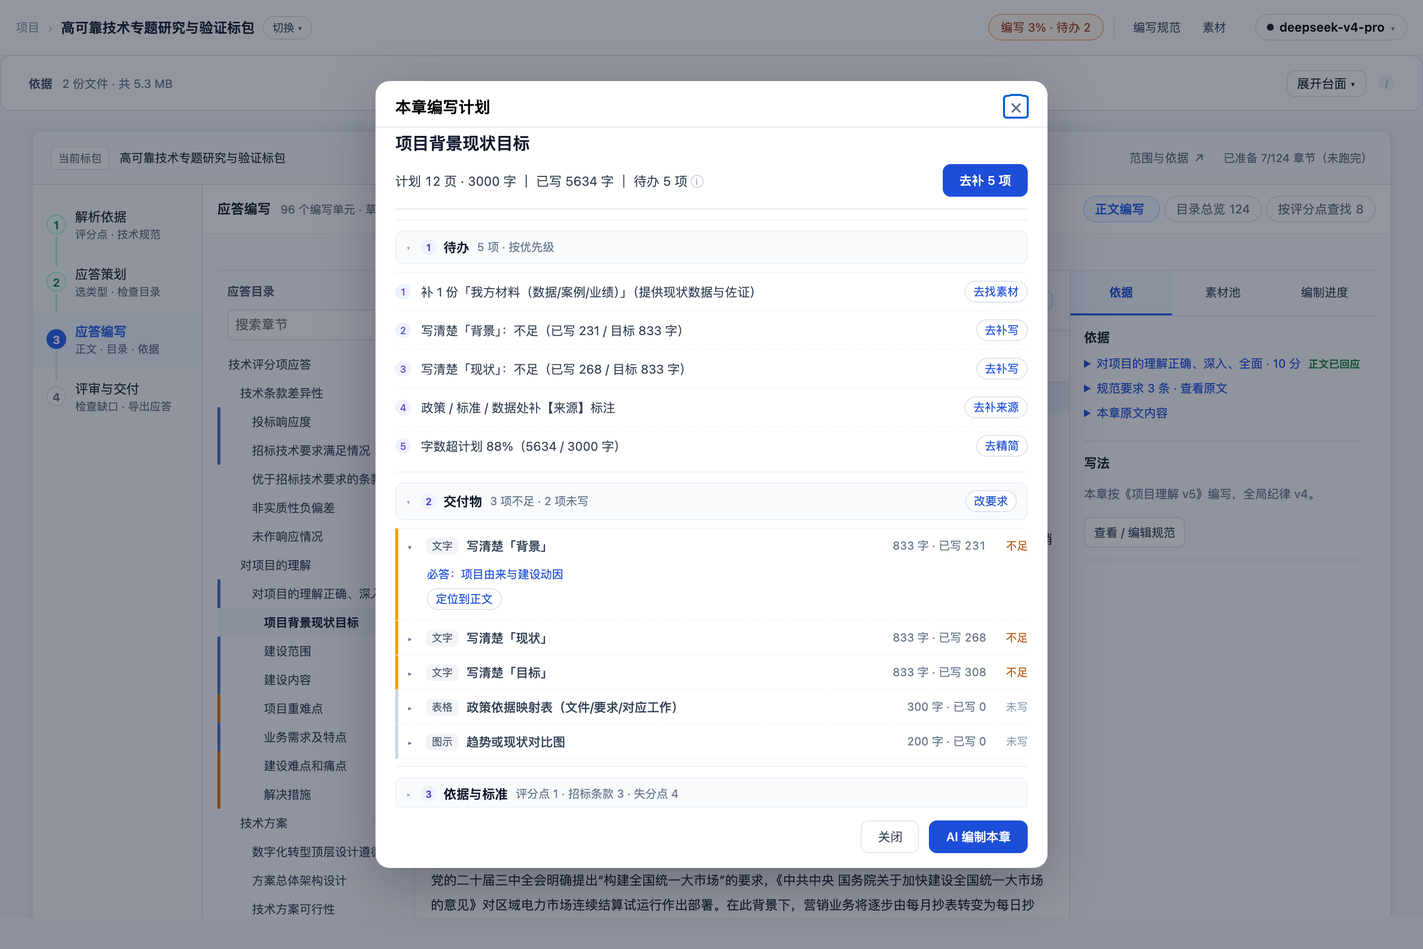
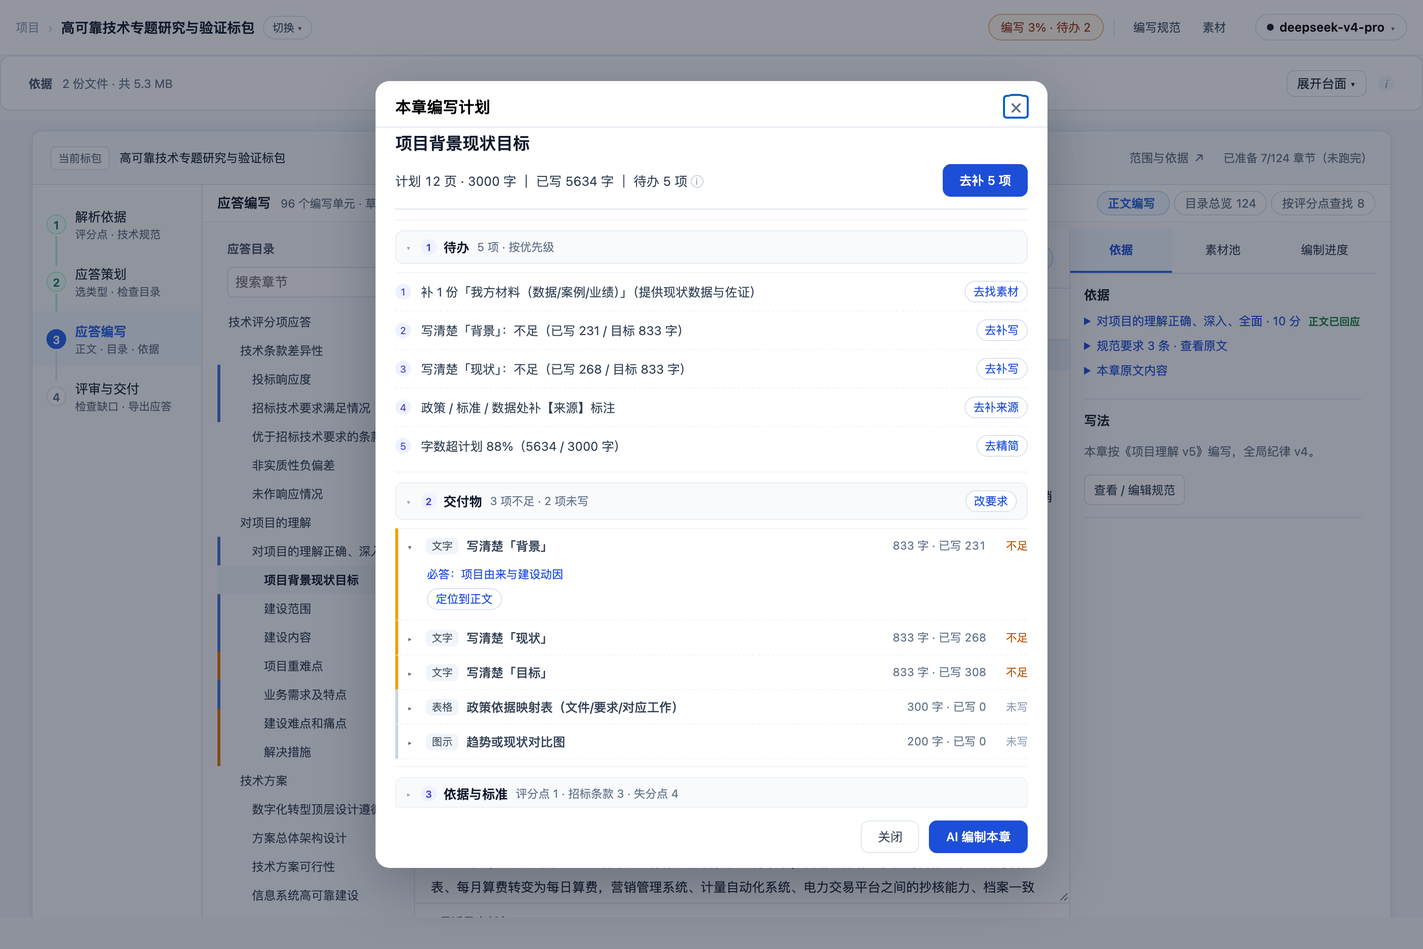
style(编写页): 收紧头部上下间距（57px → 10px）
用户标注：编写页标题行下方有一大块空白。

## 三层来源（实测）
1. `.sr-stage-head` padding 11+11 = 22px（页签移进头部后这一行变高）
2. `.sr-stage-body` padding-top 10px
3. `#sr-write-body` 里残留的 `.cs-document-head`（交付格式块已隐藏）仍占 **25px** 空高

## 调整
- `.sr-stage-head` padding → 6px（高度 50 → 38px）
- `.sr-stage-body` padding-top → 6px
- 头部页签更紧凑（padding 3px 10px / 12px 字号）
- `.cs-document-head{display:none}`：交付格式块已隐藏，容器不再占位（DOM 保留，导出逻辑照常）
- 头部到工作台间距：**57px → 10px**

## 自检加规则（25 条）
V 头部到工作台间距 ≤ 18px（在章选中之后测，避免测到空态）

`bash scripts/check.sh` → 25/25 通过（v304）

diff --git a/frontend/assets/mode-outline.js b/frontend/assets/mode-outline.js
@@ -2,9 +2,9 @@
    抽成模块的目的：两段内联脚本有 90 个同名顶层标识符 + 18 个重复 DOM id，
    同页拼接必然互相覆盖；各自成为一个模块即各自一个作用域。
    本文件在抽取时**未改任何逻辑**。 */
-import {mountChapterStudio, exportDocument} from './chapter-studio.mjs?v=20261016-v302';
-import { api } from './api.js?v=20261016-v302';
-import { specContentHtml } from './spec-content.mjs?v=20261016-v302';
+import {mountChapterStudio, exportDocument} from './chapter-studio.mjs?v=20261016-v304';
+import { api } from './api.js?v=20261016-v304';
+import { specContentHtml } from './spec-content.mjs?v=20261016-v304';
 // 顶栏（项目名旁边那行「第 N 轮 · ...」）由共享壳 workspace.js 渲染。这里要把它
 // 改成**页面自己的真实状态**：checkpoint 的 stage 在准备中/编写准备完成后都停在
 // outline_review，只看它的话顶栏永远显示"待确认目录"（实测就是这个问题）。
@@ -12,7 +12,7 @@ import { workspace, renderWorkspaceChrome,
          REQUIREMENT_ROLES, SELECTABLE_REQUIREMENT_ROLES, ROLE_LABEL_SHARED, ROLE_HINT_SHARED,
          roleMismatchWarning, inferRoleFromFilename,
          uiAlert, uiConfirm,
-       } from './workspace.js?v=20261016-v302';
+       } from './workspace.js?v=20261016-v304';
 import { resolvePackageScope, buildOutlineTree, isOrphanedRun, activeStages, instructionDirty, newOutlineId, outlineSubtreeRange,
          moveOutlineNode, indentOutlineNode, outdentOutlineNode,
          moveManyOutlineNodes, indentManyOutlineNodes, outdentManyOutlineNodes,
@@ -31,7 +31,7 @@ import { resolvePackageScope, buildOutlineTree, isOrphanedRun, activeStages, ins
          // 章节状态投影：素材库 / 方案编辑 / 覆盖矩阵共用同一份判定（不再各算各的）
          chapterStage, chapterBadges, filterChapters, chapterFilterCounts,
          CHAPTER_STAGE_LABELS, evidenceByChapter, expandVisibleWithAncestors
-       } from './workspace-model.mjs?v=20261016-v302';
+       } from './workspace-model.mjs?v=20261016-v304';
 
 const params = new URLSearchParams(location.search);
 // projectId **只取数字部分**：链接被误写成 `?projectId=19**(Cmd+Shift+R)`（连带说明文字）
@@ -180,7 +180,7 @@ document.head.insertAdjacentHTML('beforeend', `<style>
 // 左栏章节树：行标记与「方案编辑」共用一份（2026-10-13 左栏归一）。
 // 此前两侧各拼一套（.ot-row / .doc-outline-item），数据投影虽已共用，
 // 但标记重复维护会漂移（workspace-model.mjs 注释里记着 "#undefined" 那次）。
-import { chapterNode, chapterBadgesHtml as sharedBadgesHtml } from './chapter-tree.mjs?v=20261016-v302';
+import { chapterNode, chapterBadgesHtml as sharedBadgesHtml } from './chapter-tree.mjs?v=20261016-v304';
 const blocksEmpty = document.getElementById('blocks-empty');
 const sidebarToc  = document.getElementById('sidebar-toc');
 const ringFill    = document.getElementById('ring-fill');
@@ -4813,13 +4813,14 @@ async function openSplitReport({ auto = false, tab = '', stage: stageIn = '', su
   .sr-stack{flex:1;min-width:0;background:#fcfcfd}
   .sr-stage{display:none}
   .sr-stage.on{display:block}
-  .sr-stage-head{display:flex;align-items:center;gap:10px;padding:11px 15px;
+  .sr-stage-head{display:flex;align-items:center;gap:10px;padding:6px 15px;
     border-bottom:1px solid var(--line2,#eef1f5);background:#fff}
   .sr-stage-head .t{font-weight:600;font-size:13.5px}
   .sr-stage-head .hint{color:var(--muted);font-size:11.5px}
-  .sr-stage-body{padding:12px 15px 18px}
+  .sr-stage-body{padding:6px 15px 12px}
   .sr-subtabs{display:flex;gap:4px;margin:0 0 8px;flex-wrap:wrap}
   .sr-subtabs--head{margin:0 0 0 auto;flex-wrap:nowrap}
+  .sr-subtabs--head .sr-subtab{padding:3px 10px;font-size:12px}
   .sr-subtab{font-size:12.5px;padding:4px 11px;border-radius:999px;border:1px solid var(--line);
     background:#fff;color:var(--muted);cursor:pointer}
   .sr-subtab.on{background:#eff6ff;border-color:#bfdbfe;color:#2563eb;font-weight:600}
@@ -4937,6 +4938,9 @@ async function openSplitReport({ auto = false, tab = '', stage: stageIn = '', su
   .sr-topic-name{flex:0 0 46%;font-size:12.5px;overflow:hidden;text-overflow:ellipsis;white-space:nowrap}
   .sr-topic-row select{flex:1;font:inherit;font-size:12.5px;padding:2px 6px;
     border:1px solid var(--line);border-radius:6px;background:#fff}
+  #sr-write-body{margin-top:0}
+  .cs-document-head{display:none}   /* 交付格式块已隐藏，容器不再占 25px 空白 */
+  #sr-write-body .cs-workspace{margin-top:0}
   .sr-note{margin-top:10px;color:var(--muted);font-size:11.5px;line-height:1.6}`;
     document.head.appendChild(st);
   }

diff --git a/frontend/workbench.html b/frontend/workbench.html
@@ -4,7 +4,7 @@
     <meta charset="UTF-8" />
     <meta name="viewport" content="width=device-width, initial-scale=1.0" />
     <title>智能应标 · 材料撰写</title>
-    <link rel="stylesheet" href="./assets/styles.css?v=20261016-v302" />
+    <link rel="stylesheet" href="./assets/styles.css?v=20261016-v304" />
     <style>
       /* Outline pane */
       .workspace-shell .outline-pane {
@@ -2055,7 +2055,7 @@
     </style>
     <!-- Markdown 渲染（用于预览模式） -->
     <script src="https://cdn.jsdelivr.net/npm/marked@12.0.0/marked.min.js"></script>
-  <link rel="stylesheet" href="./assets/workspace.css?v=20261016-v302" />
+  <link rel="stylesheet" href="./assets/workspace.css?v=20261016-v304" />
   </head>
   <body>
   <script>
@@ -2500,18 +2500,18 @@
       </main>
     </div>
 
-    <script type="module" src="./assets/workbench.js?v=20261016-v302"></script>
+    <script type="module" src="./assets/workbench.js?v=20261016-v304"></script>
     <script type="module">
-      import { GenerateSession } from './assets/generate-session.js?v=20261016-v302';
-      import { initContextPanel } from './assets/context-panel.js?v=20261016-v302';
-      import { api } from './assets/api.js?v=20261016-v302';
-      import { request as workspaceRequest, refreshWorkspace, workspace, confirmChapterAction } from './assets/workspace.js?v=20261016-v302';
+      import { GenerateSession } from './assets/generate-session.js?v=20261016-v304';
+      import { initContextPanel } from './assets/context-panel.js?v=20261016-v304';
+      import { api } from './assets/api.js?v=20261016-v304';
+      import { request as workspaceRequest, refreshWorkspace, workspace, confirmChapterAction } from './assets/workspace.js?v=20261016-v304';
       // 提炼字段枚举 + 素材依据的**渲染片段**与 project-init 共用（见 workspace-model.mjs 注释）：
       // 性质徽标与出处行的实现在那边只有一份，两个页面不再各写一套（曾经因此漂移出
       // "每行显示 #undefined"）。
       import { CONSTRAINT_LEVELS, constraintLevelLabel,
                evidenceKindBadgeHtml, evidenceSourceLineHtml, evidenceSnippet,
-               chapterStage, CHAPTER_STAGE_LABELS } from './assets/workspace-model.mjs?v=20261016-v302';
+               chapterStage, CHAPTER_STAGE_LABELS } from './assets/workspace-model.mjs?v=20261016-v304';
       initContextPanel();
 
       // 素材抽屉：默认收起（写作时右栏就是正文本身），点工具栏「素材 n ▸」打开；
@@ -5575,6 +5575,6 @@
       })();
     })();
     </script>
-  <script type="module" src="./assets/workspace.js?v=20261016-v302"></script>
+  <script type="module" src="./assets/workspace.js?v=20261016-v304"></script>
   </body>
 </html>

diff --git a/frontend/three-mode.html b/frontend/three-mode.html
@@ -4,9 +4,9 @@
     <meta charset="UTF-8" />
     <meta name="viewport" content="width=device-width, initial-scale=1.0" />
     <title>AiBidding · Workbench Init State</title>
-    <link rel="stylesheet" href="./assets/response-outline.css?v=20261016-v302" />
-    <link rel="stylesheet" href="./assets/chapter-studio.css?v=20261016-v302" />
-    <link rel="stylesheet" href="./assets/styles.css?v=20261016-v302" />
+    <link rel="stylesheet" href="./assets/response-outline.css?v=20261016-v304" />
+    <link rel="stylesheet" href="./assets/chapter-studio.css?v=20261016-v304" />
+    <link rel="stylesheet" href="./assets/styles.css?v=20261016-v304" />
     <style>
 /* ── 三栏布局 ── */
 .init-layout {
@@ -3350,8 +3350,8 @@ body[data-view="matching"] .match-detail { display: block; }
   body[data-view="editor"] .ws-editor-layout { flex: 1 1 auto; min-height: 0; }
 
 </style>
-  <link rel="stylesheet" href="./assets/workspace.css?v=20261016-v302" />
-  <link rel="stylesheet" href="./assets/ui.css?v=20261016-v302" />   <!-- 组件最小集：最后加载以统一历史类名 -->
+  <link rel="stylesheet" href="./assets/workspace.css?v=20261016-v304" />
+  <link rel="stylesheet" href="./assets/ui.css?v=20261016-v304" />   <!-- 组件最小集：最后加载以统一历史类名 -->
   </head>
   <body data-view="outline" data-modes="outline,matching,editor">
     <div class="workspace-shell">
@@ -4062,16 +4062,16 @@ body[data-view="matching"] .match-detail { display: block; }
         if (skel) skel.hidden = true;
       }, 6000);
     </script>
-    <script type="module" src="./assets/workbench.js?v=20261016-v302"></script>
-    <script type="module" src="./assets/mode-dispatch.js?v=20261016-v302"></script>
+    <script type="module" src="./assets/workbench.js?v=20261016-v304"></script>
+    <script type="module" src="./assets/mode-dispatch.js?v=20261016-v304"></script>
     <!-- 动态 import：失败可捕获并上报（静态 import 失败无法捕获，会让整页静默不执行） -->
     <script type="module">
-      for (const mod of ['./assets/mode-outline.js?v=20261016-v302',
-                        './assets/mode-editor.js?v=20261016-v302']) {
+      for (const mod of ['./assets/mode-outline.js?v=20261016-v304',
+                        './assets/mode-editor.js?v=20261016-v304']) {
         try { await import(mod); }
         catch (err) { window.__bootErrors.push(`模块加载失败 ${mod}：${err?.message || err}`); }
       }
     </script>
-  <script type="module" src="./assets/workspace.js?v=20261016-v302"></script>
+  <script type="module" src="./assets/workspace.js?v=20261016-v304"></script>
   </body>
 </html>

diff --git a/frontend/project-init.html b/frontend/project-init.html
@@ -4,7 +4,7 @@
     <meta charset="UTF-8" />
     <meta name="viewport" content="width=device-width, initial-scale=1.0" />
     <title>AiBidding · Workbench Init State</title>
-    <link rel="stylesheet" href="./assets/styles.css?v=20261016-v302" />
+    <link rel="stylesheet" href="./assets/styles.css?v=20261016-v304" />
     <style>
 /* ── 三栏布局 ── */
 .init-layout {
@@ -889,7 +889,7 @@ body[data-view="matching"] .match-detail { display: block; }
   background: #eff6ff;
 }
     </style>
-  <link rel="stylesheet" href="./assets/workspace.css?v=20261016-v302" />
+  <link rel="stylesheet" href="./assets/workspace.css?v=20261016-v304" />
   </head>
   <body data-view="outline">
   <script>
@@ -1097,14 +1097,14 @@ body[data-view="matching"] .match-detail { display: block; }
     </div>
 
     <script type="module">
-import { api } from './assets/api.js?v=20261016-v302';
+import { api } from './assets/api.js?v=20261016-v304';
 // 顶栏（项目名旁边那行「第 N 轮 · ...」）由共享壳 workspace.js 渲染。这里要把它
 // 改成**页面自己的真实状态**：checkpoint 的 stage 在提炼中/提炼完成后都停在
 // outline_review，只看它的话顶栏永远显示"待确认目录"（实测就是这个问题）。
 import { workspace, renderWorkspaceChrome,
          REQUIREMENT_ROLES, ROLE_LABEL_SHARED, ROLE_HINT_SHARED,
          roleMismatchWarning, inferRoleFromFilename,
-       } from './assets/workspace.js?v=20261016-v302';
+       } from './assets/workspace.js?v=20261016-v304';
 import { buildOutlineTree, isOrphanedRun, activeStages, instructionDirty, newOutlineId, outlineSubtreeRange,
          moveOutlineNode, indentOutlineNode, outdentOutlineNode,
          removeOutlineSubtree, insertSiblingAfter, insertChildOf,
@@ -1118,7 +1118,7 @@ import { buildOutlineTree, isOrphanedRun, activeStages, instructionDirty, newOut
          // 章节状态投影：素材库 / 方案编辑 / 覆盖矩阵共用同一份判定（不再各算各的）
          chapterStage, chapterBadges, filterChapters, chapterFilterCounts,
          CHAPTER_STAGE_LABELS, evidenceByChapter, expandVisibleWithAncestors
-       } from './assets/workspace-model.mjs?v=20261016-v302';
+       } from './assets/workspace-model.mjs?v=20261016-v304';
 
 const params = new URLSearchParams(location.search);
 const projectId = params.get('projectId');
@@ -4957,6 +4957,6 @@ bindMatchDetailActions();
   });
 })();
     </script>
-  <script type="module" src="./assets/workspace.js?v=20261016-v302"></script>
+  <script type="module" src="./assets/workspace.js?v=20261016-v304"></script>
   </body>
 </html>

diff --git a/frontend/assets/mode-editor.js b/frontend/assets/mode-editor.js
@@ -2,13 +2,13 @@
    抽成模块的目的：两段内联脚本有 90 个同名顶层标识符 + 18 个重复 DOM id，
    同页拼接必然互相覆盖；各自成为一个模块即各自一个作用域。
    本文件在抽取时**未改任何逻辑**。 */
-import { GenerateSession } from './generate-session.js?v=20261016-v302';
+import { GenerateSession } from './generate-session.js?v=20261016-v304';
 // 左栏章节树：与「要求与大纲 / 素材库」共用一份行标记（2026-10-13 左栏归一）
-import { chapterNode, renderChapterTree } from './chapter-tree.mjs?v=20261016-v302';
-import { initContextPanel } from './context-panel.js?v=20261016-v302';
-import { api } from './api.js?v=20261016-v302';
+import { chapterNode, renderChapterTree } from './chapter-tree.mjs?v=20261016-v304';
+import { initContextPanel } from './context-panel.js?v=20261016-v304';
+import { api } from './api.js?v=20261016-v304';
 import { request as workspaceRequest, refreshWorkspace, workspace, confirmChapterAction ,
-         uiAlert, uiConfirm} from './workspace.js?v=20261016-v302';
+         uiAlert, uiConfirm} from './workspace.js?v=20261016-v304';
 
 // ── 本章要求 bar 的应答条目缓存 ──────────────────────────────
 // 必须**声明在模块最前面**：它原本声明在文件中部，而模块之间存在循环依赖
@@ -21,7 +21,7 @@ let responseItemsByBlock = {};
 // "每行显示 #undefined"）。
 import { CONSTRAINT_LEVELS, constraintLevelLabel,
          evidenceKindBadgeHtml, evidenceSourceLineHtml, evidenceSnippet,
-         chapterStage, CHAPTER_STAGE_LABELS } from './workspace-model.mjs?v=20261016-v302';
+         chapterStage, CHAPTER_STAGE_LABELS } from './workspace-model.mjs?v=20261016-v304';
 initContextPanel();
 
 // 素材抽屉：默认收起（写作时右栏就是正文本身），点工具栏「素材 n ▸」打开；

diff --git a/frontend/project-intake.html b/frontend/project-intake.html
@@ -3,7 +3,7 @@
 <head>
   <meta charset="utf-8"><meta name="viewport" content="width=device-width,initial-scale=1">
   <title>项目准备 · 智能应标</title>
-  <link rel="stylesheet" href="/assets/styles.css?v=20261016-v302">
+  <link rel="stylesheet" href="/assets/styles.css?v=20261016-v304">
   <style>
     body{margin:0;background:#f7f8fa;color:#17202a;font-family:Inter,"PingFang SC",sans-serif}
     .shell{max-width:1120px;margin:auto;padding:28px}.top{display:flex;justify-content:space-between;align-items:center;margin-bottom:22px}
@@ -32,4 +32,4 @@
 </main>
 <dialog id="package-editor"><form id="package-form"><h2>编辑投标对象</h2><p class="hint">仅在识别有误时修改；名称可留空。</p><input id="edit-id" type="hidden"><label>对象类型<select id="edit-kind"><option value="package">标包</option><option value="section">标段</option><option value="target">独立标的</option></select></label><label>所属标的编号<input id="edit-target"></label><label>标包 / 标段编号<input id="edit-code"></label><label>完整名称<input id="edit-name" maxlength="300"></label><div class="actions"><button type="button" id="cancel-edit">取消</button><button class="primary" type="submit">保存</button></div></form></dialog>
 <dialog id="merge-dialog"><form id="merge-form"><h2>合并重复候选</h2><p class="hint">将当前候选的证据合并到以下保留项。已有运行成果的候选不能合并，保留项需要重新核验。</p><input id="merge-source" type="hidden"><label>保留的投标对象<select id="merge-destination"></select></label><div class="actions"><button type="button" id="cancel-merge">取消</button><button type="submit" class="primary">确认合并</button></div></form></dialog>
-<script type="module" src="/assets/intake.js?v=20261016-v302"></script></body></html>
+<script type="module" src="/assets/intake.js?v=20261016-v304"></script></body></html>

diff --git a/frontend/review.html b/frontend/review.html
@@ -4,16 +4,16 @@
     <meta charset="UTF-8" />
     <meta name="viewport" content="width=device-width, initial-scale=1.0" />
     <title>AiBidding · 质量检查</title>
-    <link rel="stylesheet" href="./assets/styles.css?v=20261016-v302" />
-    <link rel="stylesheet" href="./assets/review.css?v=20261016-v302" />
-  <link rel="stylesheet" href="./assets/workspace.css?v=20261016-v302" />
+    <link rel="stylesheet" href="./assets/styles.css?v=20261016-v304" />
+    <link rel="stylesheet" href="./assets/review.css?v=20261016-v304" />
+  <link rel="stylesheet" href="./assets/workspace.css?v=20261016-v304" />
   <style>
     /* 返回作业面板：与项目名同级的次级入口 */
     .back-to-panel { margin-left:10px; font-size:12.5px; color:var(--muted); text-decoration:none;
       border:1px solid var(--line); border-radius:8px; padding:3px 10px; }
     .back-to-panel:hover { color:var(--text); background:var(--bg-2); }
   </style>
-  <link rel="stylesheet" href="./assets/ui.css?v=20261016-v302" />   <!-- 组件最小集：最后加载以统一历史类名 -->
+  <link rel="stylesheet" href="./assets/ui.css?v=20261016-v304" />   <!-- 组件最小集：最后加载以统一历史类名 -->
   </head>
   <body>
     <div class="workspace-shell">
@@ -96,7 +96,7 @@
       </main>
     </div>
 
-    <script type="module" src="./assets/review.js?v=20261016-v302"></script>
-  <script type="module" src="./assets/workspace.js?v=20261016-v302"></script>
+    <script type="module" src="./assets/review.js?v=20261016-v304"></script>
+  <script type="module" src="./assets/workspace.js?v=20261016-v304"></script>
   </body>
 </html>

diff --git a/frontend/assets/workbench.js b/frontend/assets/workbench.js
@@ -1,12 +1,12 @@
-import {workspace, subscribe, refreshWorkspace, workspaceUrl, confirmChapterAction, openDialog, showHistory, statusLabels, esc} from './workspace.js?v=20261016-v302';
+import {workspace, subscribe, refreshWorkspace, workspaceUrl, confirmChapterAction, openDialog, showHistory, statusLabels, esc} from './workspace.js?v=20261016-v304';
 // 章节状态/依据徽标与「素材库」共用一份投影（同一棵目录树，四个环节都一样）
-import {chapterBadges, parseEvidence} from './workspace-model.mjs?v=20261016-v302';
+import {chapterBadges, parseEvidence} from './workspace-model.mjs?v=20261016-v304';
 // 左栏章节树：**三个模式共用一份**行标记（2026-10-13 归一）。
 // 此前编辑器侧自己拼 `.doc-outline-item`、大纲侧拼 `.ot-row`，是两套实现；
 // 数据投影本就共用（workspace-model），这里把标记也收敛掉。
 // 行上仍保留 `doc-outline-item` 类与 data-block-id 属性，兼容 mode-editor.js 里
 // 既有的 10 处选择器（改动面最小化）。
-import {chapterNode, renderChapterTree, chapterBadgesHtml} from './chapter-tree.mjs?v=20261016-v302';
+import {chapterNode, renderChapterTree, chapterBadgesHtml} from './chapter-tree.mjs?v=20261016-v304';
 // 左栏树的**唯一宿主**：由 mode-dispatch 在模式切换时把 #blocks-list 搬到当前模式的
 // 左栏位置。归一前这里是 `.doc-outline`，与大纲侧 `#blocks-list` 各渲一棵（实测
 // .ot-node 有 120 个 = 两棵各 60）。动态解析而不是加载时捕获，就是为了让宿主可搬。

diff --git a/frontend/projects.html b/frontend/projects.html
@@ -4,7 +4,7 @@
     <meta charset="UTF-8" />
     <meta name="viewport" content="width=device-width, initial-scale=1.0" />
     <title>智能应标 · 项目列表</title>
-    <link rel="stylesheet" href="./assets/styles.css?v=20261016-v302" />
+    <link rel="stylesheet" href="./assets/styles.css?v=20261016-v304" />
     <style>
       /* ── 页头 ── */
       .app-header {
@@ -613,7 +613,7 @@
       .btn-api-save:disabled { opacity: 0.45; cursor: default; }
       .btn-api-save:not(:disabled):hover { opacity: 0.88; }
     </style>
-    <link rel="stylesheet" href="./assets/ui.css?v=20261016-v302" />   <!-- 组件最小集：最后加载以统一历史类名 -->
+    <link rel="stylesheet" href="./assets/ui.css?v=20261016-v304" />   <!-- 组件最小集：最后加载以统一历史类名 -->
 </head>
   <body>
     <!-- 页头 -->
@@ -745,7 +745,7 @@
     </div>
 
     <script type="module">
-      import { api } from './assets/api.js?v=20261016-v302';
+      import { api } from './assets/api.js?v=20261016-v304';
 
       // ── 状态 ──
       const reqFiles = []; // {file, name, size, ext}

diff --git a/frontend/diff-review.html b/frontend/diff-review.html
@@ -4,8 +4,8 @@
     <meta charset="UTF-8" />
     <meta name="viewport" content="width=device-width, initial-scale=1.0" />
     <title>AiBidding · Diff Review</title>
-    <link rel="stylesheet" href="./assets/styles.css?v=20261016-v302" />
-  <link rel="stylesheet" href="./assets/workspace.css?v=20261016-v302" />
+    <link rel="stylesheet" href="./assets/styles.css?v=20261016-v304" />
+  <link rel="stylesheet" href="./assets/workspace.css?v=20261016-v304" />
   </head>
   <body>
     <div class="workspace-shell">
@@ -98,7 +98,7 @@
     </div>
 
     <script type="module">
-      import { api } from './assets/api.js?v=20261016-v302';
+      import { api } from './assets/api.js?v=20261016-v304';
 
       const params    = new URLSearchParams(location.search);
       const projectId = params.get('projectId');
@@ -326,6 +326,6 @@
 
       loadRevisions();
     </script>
-  <script type="module" src="./assets/workspace.js?v=20261016-v302"></script>
+  <script type="module" src="./assets/workspace.js?v=20261016-v304"></script>
   </body>
 </html>

diff --git a/frontend/assets/workspace.js b/frontend/assets/workspace.js
@@ -1,11 +1,11 @@
-import {projectChapters, summarize, statusLabels, stageLabels, activeStages, runtimeStages, isOrphanedRun, isExtractDone, diffHtml, escapeHtml as esc} from './workspace-model.mjs?v=20261016-v302';
+import {projectChapters, summarize, statusLabels, stageLabels, activeStages, runtimeStages, isOrphanedRun, isExtractDone, diffHtml, escapeHtml as esc} from './workspace-model.mjs?v=20261016-v304';
 export {statusLabels, esc};
 // 材料角色体系再导出：project-init 的角色下拉与"分类纠错提示"都从这里取
 export {
   REQUIREMENT_ROLES, SELECTABLE_REQUIREMENT_ROLES, SOURCE_ROLES, ALL_MATERIAL_ROLES,
   ROLE_LABEL as ROLE_LABEL_SHARED, ROLE_HINT as ROLE_HINT_SHARED,
   isRequirementRole, inferRoleFromFilename, roleMismatchWarning,
-} from './material-roles.mjs?v=20261016-v302';
+} from './material-roles.mjs?v=20261016-v304';
 export async function request(url, options) {
   const response = await fetch(url, options);
   const data = await response.json().catch(() => ({}));

diff --git a/frontend/assets/review.js b/frontend/assets/review.js
@@ -1,5 +1,5 @@
-import {workspace, subscribe, workspaceUrl, request, refreshWorkspace, confirmChapterAction, showHistory, openDialog, statusLabels, esc} from './workspace.js?v=20261016-v302';
-import {summarize, diffHtml} from './workspace-model.mjs?v=20261016-v302';
+import {workspace, subscribe, workspaceUrl, request, refreshWorkspace, confirmChapterAction, showHistory, openDialog, statusLabels, esc} from './workspace.js?v=20261016-v304';
+import {summarize, diffHtml} from './workspace-model.mjs?v=20261016-v304';
 const $ = id => document.getElementById(id);
 
 // 「← 作业面板」带上当前项目/线程/标包 —— 回面板仍是同一条作业、同一个标包
